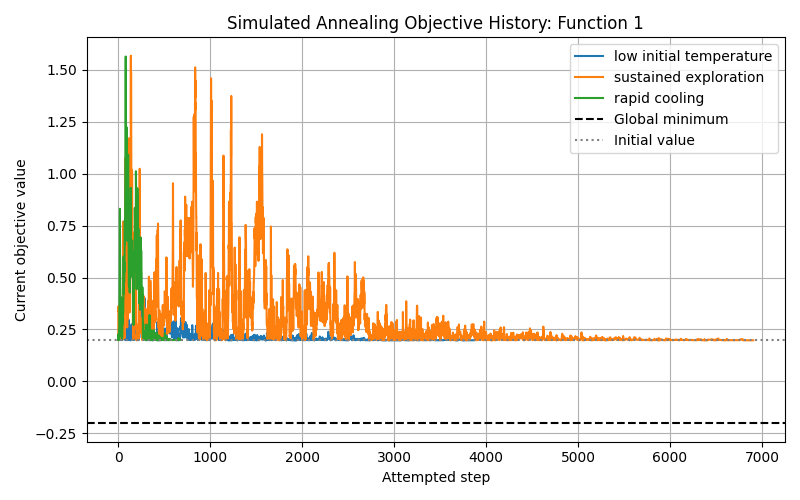
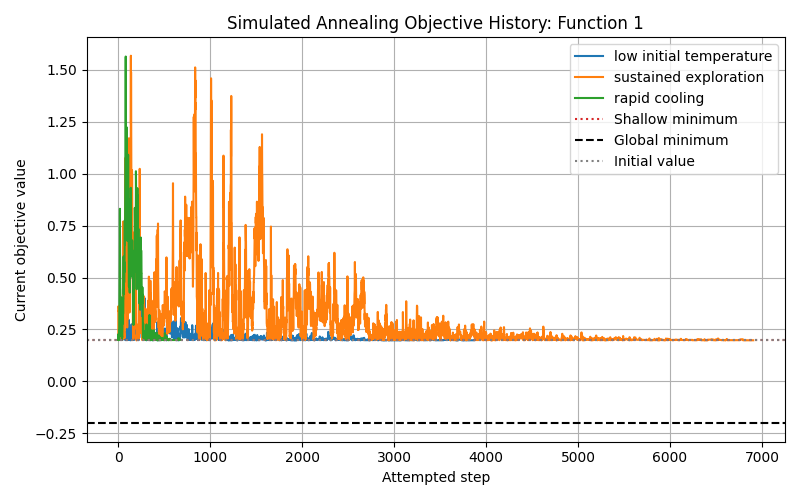
final version

Changed region(s): [[0.7188, 0.21, 0.9062, 0.36]]

diff --git a/optimization.py b/optimization.py
@@ -2,8 +2,45 @@ import numpy as np
 import matplotlib.pyplot as plt
 from landscapes import function1, function2, f_test
 
+#validation
+def validate_search_parameters(
+        x_low, x_high, y_low, y_high,
+        step_size=None, N_max=None, W=None, eps=None,
+        T0=None, alpha=None, Tmin=None
+    ):
+
+    if x_low >= x_high or y_low >= y_high:
+        raise ValueError('Domain limits must satisfy low < high.')
+
+    if step_size is not None and step_size <= 0:
+        raise ValueError('step_size must be positive.')
+
+    if N_max is not None and N_max <= 0:
+        raise ValueError('N_max must be positive.')
+
+    if W is not None and (W <= 0 or W > N_max):
+        raise ValueError('W must be positive and no larger than N_max.')
+
+    if eps is not None and eps < 0:
+        raise ValueError('eps must be non-negative.')
+
+    if T0 is not None and T0 <= 0:
+        raise ValueError('T0 must be positive.')
+
+    if Tmin is not None and (Tmin <= 0 or Tmin >= T0):
+        raise ValueError('Tmin must satisfy 0 < Tmin < T0.')
+
+    if alpha is not None and not 0 < alpha < 1:
+        raise ValueError('alpha must satisfy 0 < alpha < 1.')
+    
 
 def random_sampling(f, rng, N, sd1, sd2):
+
+    if not isinstance(N, (int, np.integer)) or N <= 0:
+        raise ValueError('N must be a positive integer.')
+
+    if sd1 >= sd2:
+        raise ValueError('Sampling limits must satisfy sd1 < sd2.')
 
     z_values = []
     x_values = []
@@ -145,6 +182,14 @@ def contour_plot(
 def random_move_hill_climbing(x0, y0,rng, f, x_low, x_high, y_low, y_high,
                               step_size, N_max=10000, W=100, eps= 1e-4):
 
+
+    validate_search_parameters(
+        x_low, x_high, y_low, y_high,
+        step_size=step_size,
+        N_max=N_max,
+        W=W,
+        eps=eps
+    )
     x = x0
     y = y0
     z = f(x, y)
@@ -305,6 +350,18 @@ def simulated_annealing(x0, y0, rng, f,
                         step_size, T0, alpha, Tmin,
                         N_max = 10000, W=100, eps=1e-4):
 
+
+    validate_search_parameters(
+        x_low, x_high, y_low, y_high,
+        step_size=step_size,
+        N_max=N_max,
+        W=W,
+        eps=eps,
+        T0=T0,
+        alpha=alpha,
+        Tmin=Tmin
+    )
+    
     #current state
     x = x0
     y = y0
@@ -550,7 +607,8 @@ def plot_annealing_schedule_histories(
         representative_runs,
         global_minimum,
         initial_value,
-        name
+        name,
+        shallow_minimum=None
     ):
 
     plt.figure(figsize=(8, 5))
@@ -563,6 +621,15 @@ def plot_annealing_schedule_histories(
             attempts,
             run['z_path'],
             label=run['schedule']
+        )
+
+    if shallow_minimum is not None:
+
+        plt.axhline(
+            shallow_minimum,
+            color='tab:red',
+            linestyle=':',
+            label='Shallow minimum'
         )
 
     plt.axhline(

diff --git a/analysis.py b/analysis.py
@@ -92,6 +92,46 @@ print('associated x function 2:', x_min2)
 print('associated y  function 2:', y_min2)
 
 
+
+#sample counts 
+sample_counts = [1_000, 10_000]
+
+rng_sample_counts = np.random.default_rng(args.seed + 100)
+
+print()
+print('Random-sampling sample-count comparison')
+
+for sample_count in sample_counts:
+
+    x_best1, y_best1, z_best1, _, _ = random_sampling(
+        function1,
+        rng_sample_counts,
+        sample_count,
+        -2,
+        2
+    )
+
+    x_best2, y_best2, z_best2, _, _ = random_sampling(
+        function2,
+        rng_sample_counts,
+        sample_count,
+        -3,
+        3
+    )
+
+    print()
+    print(f'N = {sample_count}')
+    print(
+        f'Function 1: best point = '
+        f'({x_best1:.4f}, {y_best1:.4f}), '
+        f'value = {z_best1:.6f}'
+    )
+    print(
+        f'Function 2: best point = '
+        f'({x_best2:.4f}, {y_best2:.4f}), '
+        f'value = {z_best2:.6f}'
+    )
+
  
 #f2 approximate well checks
 function2_reference_minima = [
@@ -469,7 +509,8 @@ plot_annealing_schedule_histories(
     representative_f1,
     global_minimum=-0.2024,
     initial_value=function1(1.0, 0.5),
-    name='Function 1'
+    name='Function 1',
+    shallow_minimum=0.1974
 )
 
 plot_annealing_schedule_trajectories(
